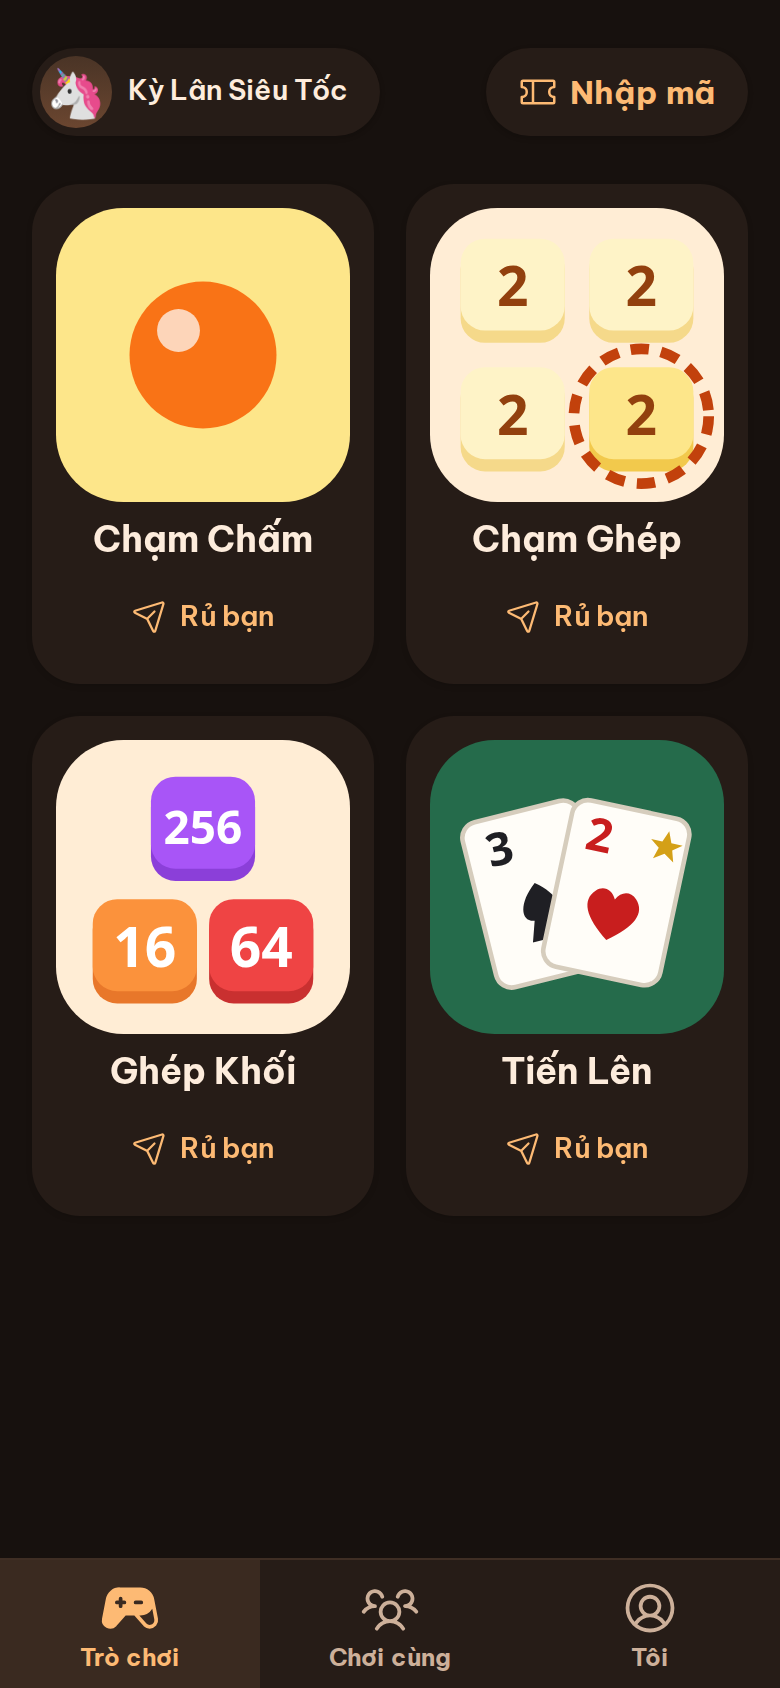
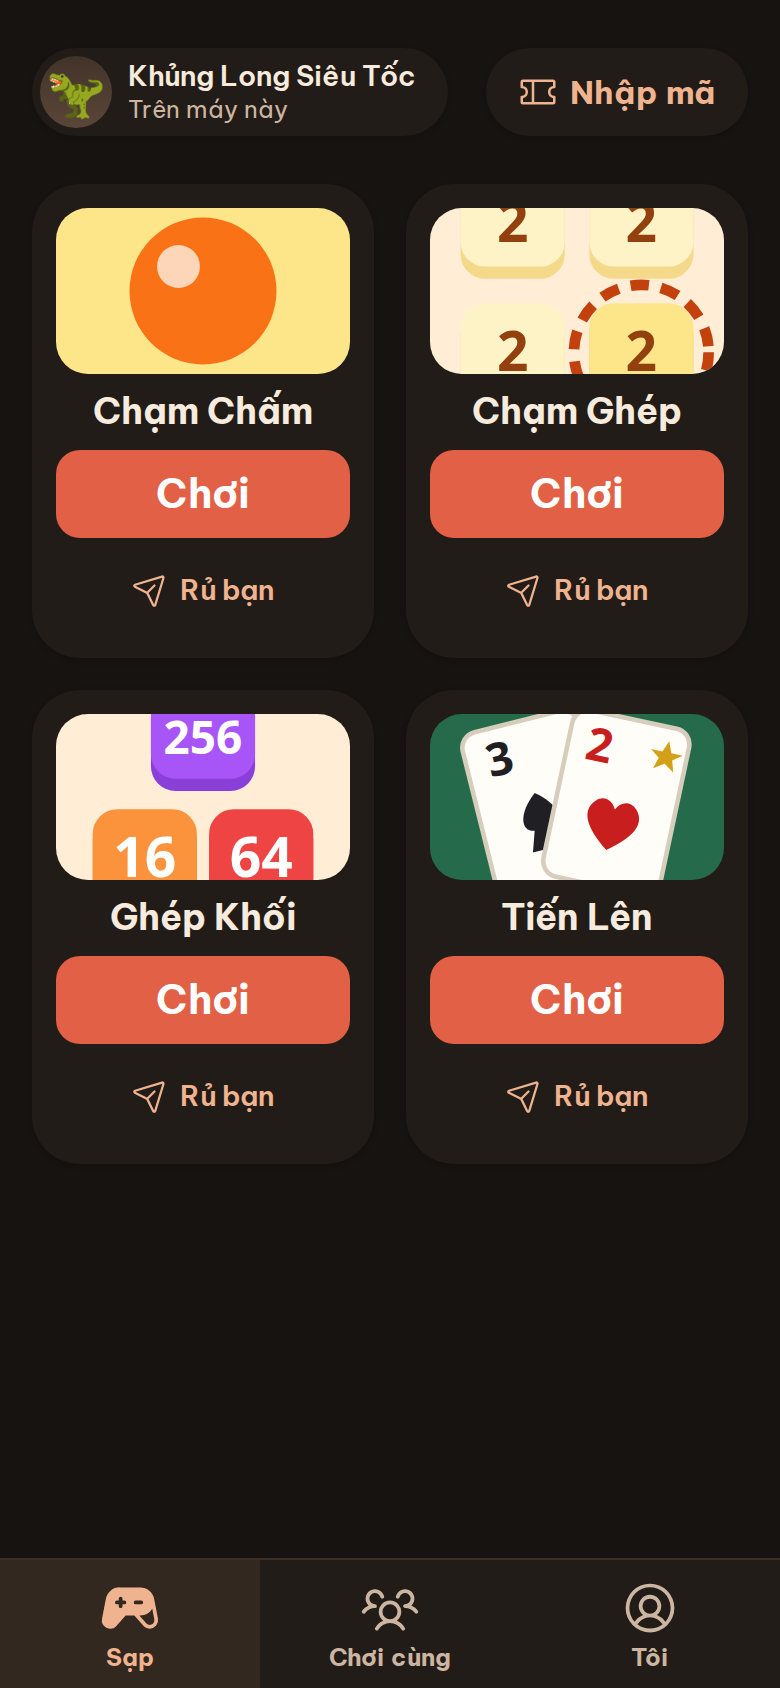
feat(tokens): paper, ink, gac, turmeric and leaf
ADR 0057's palette: rice paper, warm charcoal, gac red for actions, turmeric and leaf for attention and together. New line-ink, highlight and leaf tokens; the browser bars, PWA icons and screenshots follow; primary buttons get a hard offset shadow. The install screenshots go through the door.

diff --git a/packages/design-tokens/tokens.css b/packages/design-tokens/tokens.css
@@ -1,5 +1,5 @@
 /*
- * Tò He colour tokens (ADR 0013): one palette for the hub, the site and the game kit's screens.
+ * Tò He colour tokens (ADR 0013, ADR 0057): one palette for the hub, the site and the game kit's screens.
  *
  * Light is the default; `data-theme="dark"` on <html> switches to the dark palette — warm charcoal, never pure
  * black, so Tò He keeps its toy-like warmth at night. Names say what a colour is *for*, not what it looks like,
@@ -19,28 +19,31 @@
 [data-theme="light"] ::backdrop {
   color-scheme: light;
 
-  /* Surfaces, from back to front */
-  --tohe-page: #fff7ed; /* page background, sheets */
-  --tohe-surface: #ffffff; /* cards, inputs, keys, chips: anything raised */
-  --tohe-fill: #fff7ed; /* quiet rows and boxes inside a surface */
-  --tohe-soft: #ffedd5; /* tinted controls: secondary and icon buttons */
-  --tohe-soft-strong: #fed7aa; /* pressed or selected tint */
-  --tohe-line: #fed7aa; /* borders and dividers */
-  --tohe-line-strong: #fdba74; /* dashed "add" outlines */
+  /* Surfaces, from back to front: rice paper, a warm white sheet, a quiet fill, tinted controls. */
+  --tohe-page: #f6efe3; /* page background, sheets */
+  --tohe-surface: #fffdf8; /* cards, inputs, keys, chips: anything raised */
+  --tohe-fill: #fbf5ea; /* quiet rows and boxes inside a surface */
+  --tohe-soft: #f1e3ce; /* tinted controls: secondary and icon buttons */
+  --tohe-soft-strong: #e8d3b8; /* pressed or selected tint */
+  --tohe-line: #e4d5c3; /* borders and dividers */
+  --tohe-line-strong: #c9b49a; /* dashed "add" outlines */
+  --tohe-line-ink: #201a16; /* the 1.5 px ink border of a game card, a sticker or a primary button */
 
-  /* Text */
-  --tohe-ink: #431407; /* main text */
-  --tohe-ink-soft: #8a4a32; /* secondary text: subtitles, hints, descriptions */
-  --tohe-ink-faint: #fdba74; /* decoration only, never information */
-  --tohe-accent: #9a3412; /* text and icons of secondary controls */
-  --tohe-brand-ink: #c2410c; /* brand-coloured text: titles, links */
+  /* Text: warm charcoal, never pure black. */
+  --tohe-ink: #201a16; /* main text */
+  --tohe-ink-soft: #6b5a4e; /* secondary text: subtitles, hints, descriptions */
+  --tohe-ink-faint: #a89686; /* decoration only, never information (placeholders) */
+  --tohe-accent: #7a4a2e; /* text and icons of secondary controls */
+  --tohe-brand-ink: #a62f1f; /* gấc-dark text: titles, links */
 
-  /* Brand: primary actions */
-  --tohe-brand: #ea580c;
-  --tohe-brand-strong: #c2410c; /* pressed */
+  /* Brand: gấc red for primary actions; turmeric and leaf for what is new or together. */
+  --tohe-brand: #c8402a;
+  --tohe-brand-strong: #a62f1f; /* pressed */
   --tohe-on-brand: #ffffff;
-  --tohe-glow: rgb(251 146 60 / 0.35); /* coloured shadow under brand elements */
-  --tohe-focus: #ea580c;
+  --tohe-highlight: #d99a2b; /* a "new" sticker, a quiet attention mark: decoration and large marks only */
+  --tohe-leaf: #3e6b4f; /* together, online, "đang mở" */
+  --tohe-glow: rgb(200 64 42 / 0.25); /* retired from the surface; a game may still use it */
+  --tohe-focus: #c8402a;
 
   /* Status */
   --tohe-danger: #b91c1c;
@@ -51,35 +54,38 @@
   --tohe-notice-ink: #78350f;
 
   /* Misc */
-  --tohe-scrim: rgb(67 20 7 / 0.4); /* behind dialogs */
-  --tohe-avatar-from: #fef3c7;
-  --tohe-avatar-to: #fed7aa;
-  --tohe-bar: #f97316; /* browser UI (status bar); mirrored in the hub's public/theme-init.js */
+  --tohe-scrim: rgb(32 26 22 / 0.45); /* behind dialogs */
+  --tohe-avatar-from: #f3e2c7;
+  --tohe-avatar-to: #e8d3b8;
+  --tohe-bar: #f6efe3; /* browser UI (status bar); mirrored in the hub's public/theme-init.js */
 }
 
 [data-theme="dark"],
 [data-theme="dark"] ::backdrop {
   color-scheme: dark;
 
-  --tohe-page: #17110e;
-  --tohe-surface: #261c17;
-  --tohe-fill: #31241d;
-  --tohe-soft: #3a2a20;
-  --tohe-soft-strong: #4a3426;
-  --tohe-line: #3f2e24;
-  --tohe-line-strong: #6e4c36;
+  --tohe-page: #171310;
+  --tohe-surface: #221c18;
+  --tohe-fill: #2b231e;
+  --tohe-soft: #332820;
+  --tohe-soft-strong: #423329;
+  --tohe-line: #3a2e26;
+  --tohe-line-strong: #5a4638;
+  --tohe-line-ink: #e9d9c6;
 
-  --tohe-ink: #fdecdc;
-  --tohe-ink-soft: #cdb09a;
-  --tohe-ink-faint: #7a5a46;
-  --tohe-accent: #fdba74;
-  --tohe-brand-ink: #fb923c;
+  --tohe-ink: #f7ebdd;
+  --tohe-ink-soft: #cdb6a1;
+  --tohe-ink-faint: #8c7563;
+  --tohe-accent: #f0b38f;
+  --tohe-brand-ink: #f08a6a;
 
-  --tohe-brand: #ea580c;
-  --tohe-brand-strong: #c2410c;
+  --tohe-brand: #e26045;
+  --tohe-brand-strong: #c8402a;
   --tohe-on-brand: #ffffff;
-  --tohe-glow: rgb(234 88 12 / 0.3);
-  --tohe-focus: #fb923c;
+  --tohe-highlight: #e3a84a;
+  --tohe-leaf: #7fb08e;
+  --tohe-glow: rgb(226 96 69 / 0.25);
+  --tohe-focus: #f08a6a;
 
   --tohe-danger: #fca5a5;
   --tohe-danger-soft: #3b1a17;
@@ -89,9 +95,9 @@
   --tohe-notice-ink: #fcd34d;
 
   --tohe-scrim: rgb(0 0 0 / 0.6);
-  --tohe-avatar-from: #4a3426;
-  --tohe-avatar-to: #6b4630;
-  --tohe-bar: #17110e;
+  --tohe-avatar-from: #423329;
+  --tohe-avatar-to: #5a4638;
+  --tohe-bar: #171310;
 }
 
 /* Type: not themed, so one block for both. Be Vietnam Pro is loaded by fonts.css; until it arrives (and wherever an app

diff --git a/apps/hub/404.html b/apps/hub/404.html
@@ -4,8 +4,8 @@
     <meta charset="UTF-8" />
     <meta name="viewport" content="width=device-width, initial-scale=1, viewport-fit=cover" />
     <meta name="robots" content="noindex" />
-    <meta name="theme-color" media="(prefers-color-scheme: light)" content="#f97316" />
-    <meta name="theme-color" media="(prefers-color-scheme: dark)" content="#17110e" />
+    <meta name="theme-color" media="(prefers-color-scheme: light)" content="#f6efe3" />
+    <meta name="theme-color" media="(prefers-color-scheme: dark)" content="#171310" />
     <link rel="icon" href="/favicon.svg" type="image/svg+xml" />
     <title>Không tìm thấy trang · Page not found · Tò He</title>
     <!-- The hub's Caddy answers this page, with 404, to a path in no namespace (ADR 0042). It speaks both languages: it

diff --git a/apps/hub/index.html b/apps/hub/index.html
@@ -3,8 +3,8 @@
   <head>
     <meta charset="UTF-8" />
     <meta name="viewport" content="width=device-width, initial-scale=1, viewport-fit=cover" />
-    <meta name="theme-color" media="(prefers-color-scheme: light)" content="#f97316" />
-    <meta name="theme-color" media="(prefers-color-scheme: dark)" content="#17110e" />
+    <meta name="theme-color" media="(prefers-color-scheme: light)" content="#f6efe3" />
+    <meta name="theme-color" media="(prefers-color-scheme: dark)" content="#171310" />
     <meta name="apple-mobile-web-app-capable" content="yes" />
     <meta name="apple-mobile-web-app-status-bar-style" content="default" />
     <link rel="icon" href="/favicon.svg" type="image/svg+xml" />

diff --git a/apps/hub/scripts/render-screenshots.ts b/apps/hub/scripts/render-screenshots.ts
@@ -114,7 +114,10 @@ try {
         body: readFileSync(join(games, id, 'public', 'icon.svg')),
       });
     });
-    await page.goto(`${origin}/play`);
+    // The door (ADR 0057): a new device chooses Play now, then confirms the suggested profile, then the catalog.
+    await page.goto(`${origin}/account/sign-in`);
+    await page.getByRole('button', { name: 'Chơi ngay' }).click();
+    await page.getByRole('button', { name: 'Vào chơi' }).click();
     await page.getByRole('link', { name: /Ghép Khối/ }).waitFor();
     // Let the entrance animations settle, so the picture shows final colours.
     await page.evaluate(() => Promise.all(document.getAnimations().map((a) => a.finished)));

diff --git a/apps/hub/scripts/render-icons.ts b/apps/hub/scripts/render-icons.ts
@@ -28,7 +28,7 @@ const browser = await chromium.launch().catch(() => chromium.launch({ channel: '
 for (const { file, size } of targets) {
   const page = await browser.newPage({ viewport: { width: size, height: size } });
   await page.setContent(
-    `<style>html,body{margin:0;background:#f97316}svg{width:${size}px;height:${size}px;display:block}</style>${svg}`,
+    `<style>html,body{margin:0;background:#c8402a}svg{width:${size}px;height:${size}px;display:block}</style>${svg}`,
   );
   await page.screenshot({ path: join(publicDir, file) });
   await page.close();

diff --git a/apps/hub/src/styles.css b/apps/hub/src/styles.css
@@ -16,10 +16,13 @@
   --color-soft-strong: var(--tohe-soft-strong);
   --color-line: var(--tohe-line);
   --color-line-strong: var(--tohe-line-strong);
+  --color-line-ink: var(--tohe-line-ink);
   --color-ink: var(--tohe-ink);
   --color-ink-soft: var(--tohe-ink-soft);
   --color-ink-faint: var(--tohe-ink-faint);
   --color-accent: var(--tohe-accent);
+  --color-highlight: var(--tohe-highlight);
+  --color-leaf: var(--tohe-leaf);
   --color-brand-ink: var(--tohe-brand-ink);
   --color-brand: var(--tohe-brand);
   --color-brand-strong: var(--tohe-brand-strong);

diff --git a/apps/hub/vite.config.ts b/apps/hub/vite.config.ts
@@ -98,7 +98,7 @@ export default defineConfig({
         // game.json prefers inside the screen it gets.
         // The splash screen: the brand colour, with the opaque icon in the middle.
         background_color: brand,
-        theme_color: '#f97316',
+        theme_color: '#f6efe3',
         // Opaque, the brand colour in the corners (iOS paints transparency black); the maskable one is its own file, its
         // art inside the 80% safe zone. Made by `pnpm --filter @tohe/hub generate:icons`.
         icons: [

diff --git a/packages/design-tokens/src/theme.ts b/packages/design-tokens/src/theme.ts
@@ -8,7 +8,7 @@ export type Theme = 'light' | 'dark';
 export const THEME_COOKIE = 'tohe-theme';
 
 /** Browser UI (status bar) colour per theme: --tohe-bar in tokens.css, checked by theme.test.ts. */
-export const BAR_COLOR: Record<Theme, string> = { light: '#f97316', dark: '#17110e' };
+export const BAR_COLOR: Record<Theme, string> = { light: '#f6efe3', dark: '#171310' };
 
 /** The saved choice in a `document.cookie` string; no cookie means "system". */
 export function parseChoice(cookie: string): ThemeChoice {

diff --git a/apps/hub/src/ui/Button.tsx b/apps/hub/src/ui/Button.tsx
@@ -1,7 +1,7 @@
 import type { ButtonHTMLAttributes } from 'react';
 
 const variants = {
-  primary: 'bg-brand text-on-brand shadow-sm shadow-glow active:bg-brand-strong',
+  primary: 'bg-brand text-on-brand shadow-[3px_3px_0_var(--tohe-line-ink)] active:bg-brand-strong',
   secondary: 'bg-soft text-accent active:bg-soft-strong',
   ghost: 'bg-transparent text-accent active:bg-soft',
   danger: 'bg-danger-soft text-danger active:bg-danger-soft-strong',

diff --git a/apps/hub/public/theme-init.js b/apps/hub/public/theme-init.js
@@ -11,6 +11,6 @@
   // Every theme-color tag, so a page with one per scheme (media="(prefers-color-scheme: …)") shows the chosen theme's
   // colour whichever scheme the device is in.
   for (const meta of document.querySelectorAll('meta[name="theme-color"]')) {
-    meta.setAttribute('content', theme === 'dark' ? '#17110e' : '#f97316');
+    meta.setAttribute('content', theme === 'dark' ? '#171310' : '#f6efe3');
   }
 })();

diff --git a/packages/design-tokens/theme-init.js b/packages/design-tokens/theme-init.js
@@ -11,6 +11,6 @@
   // Every theme-color tag, so a page with one per scheme (media="(prefers-color-scheme: …)") shows the chosen theme's
   // colour whichever scheme the device is in.
   for (const meta of document.querySelectorAll('meta[name="theme-color"]')) {
-    meta.setAttribute('content', theme === 'dark' ? '#17110e' : '#f97316');
+    meta.setAttribute('content', theme === 'dark' ? '#171310' : '#f6efe3');
   }
 })();
